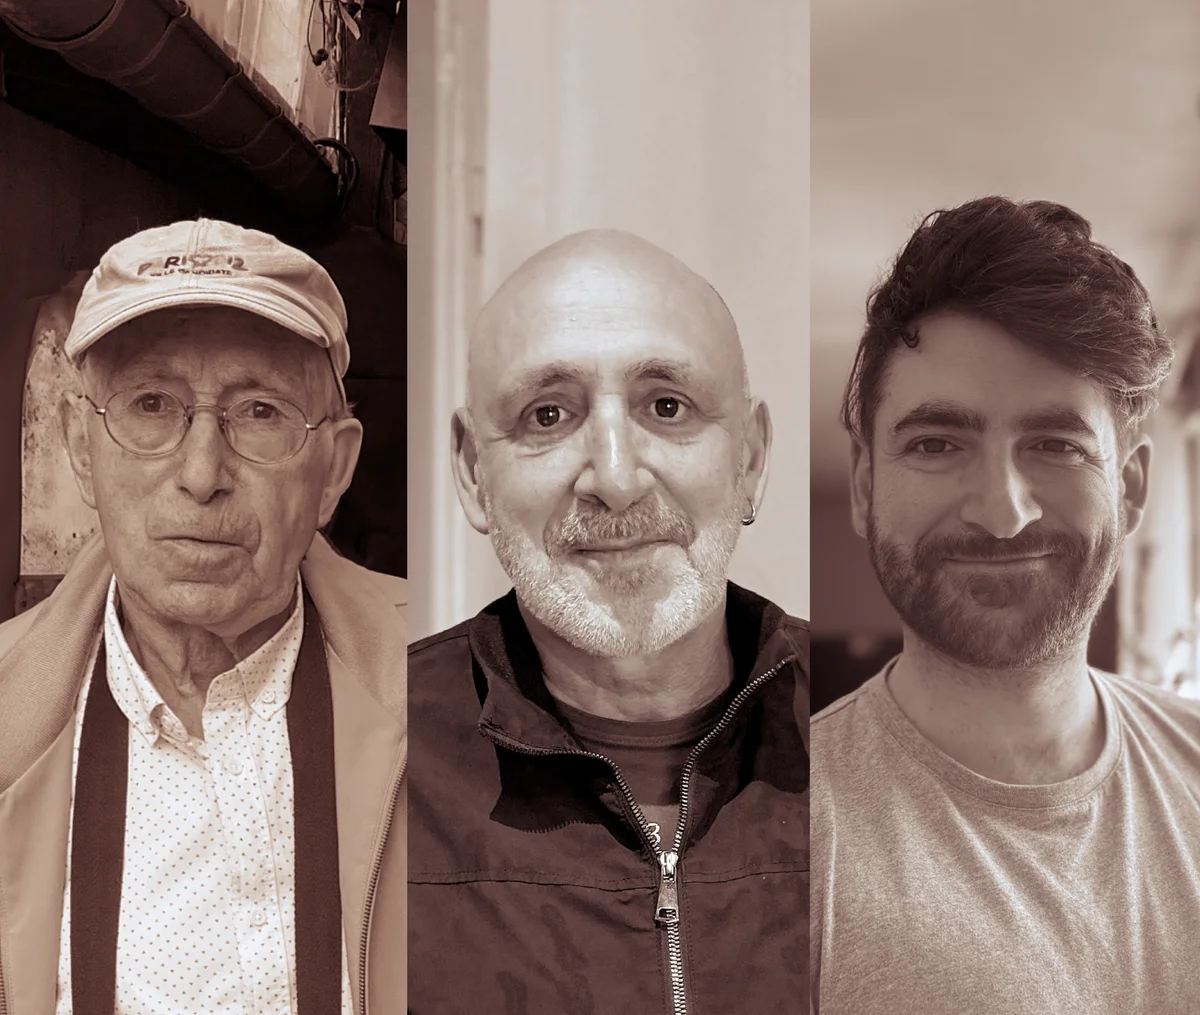
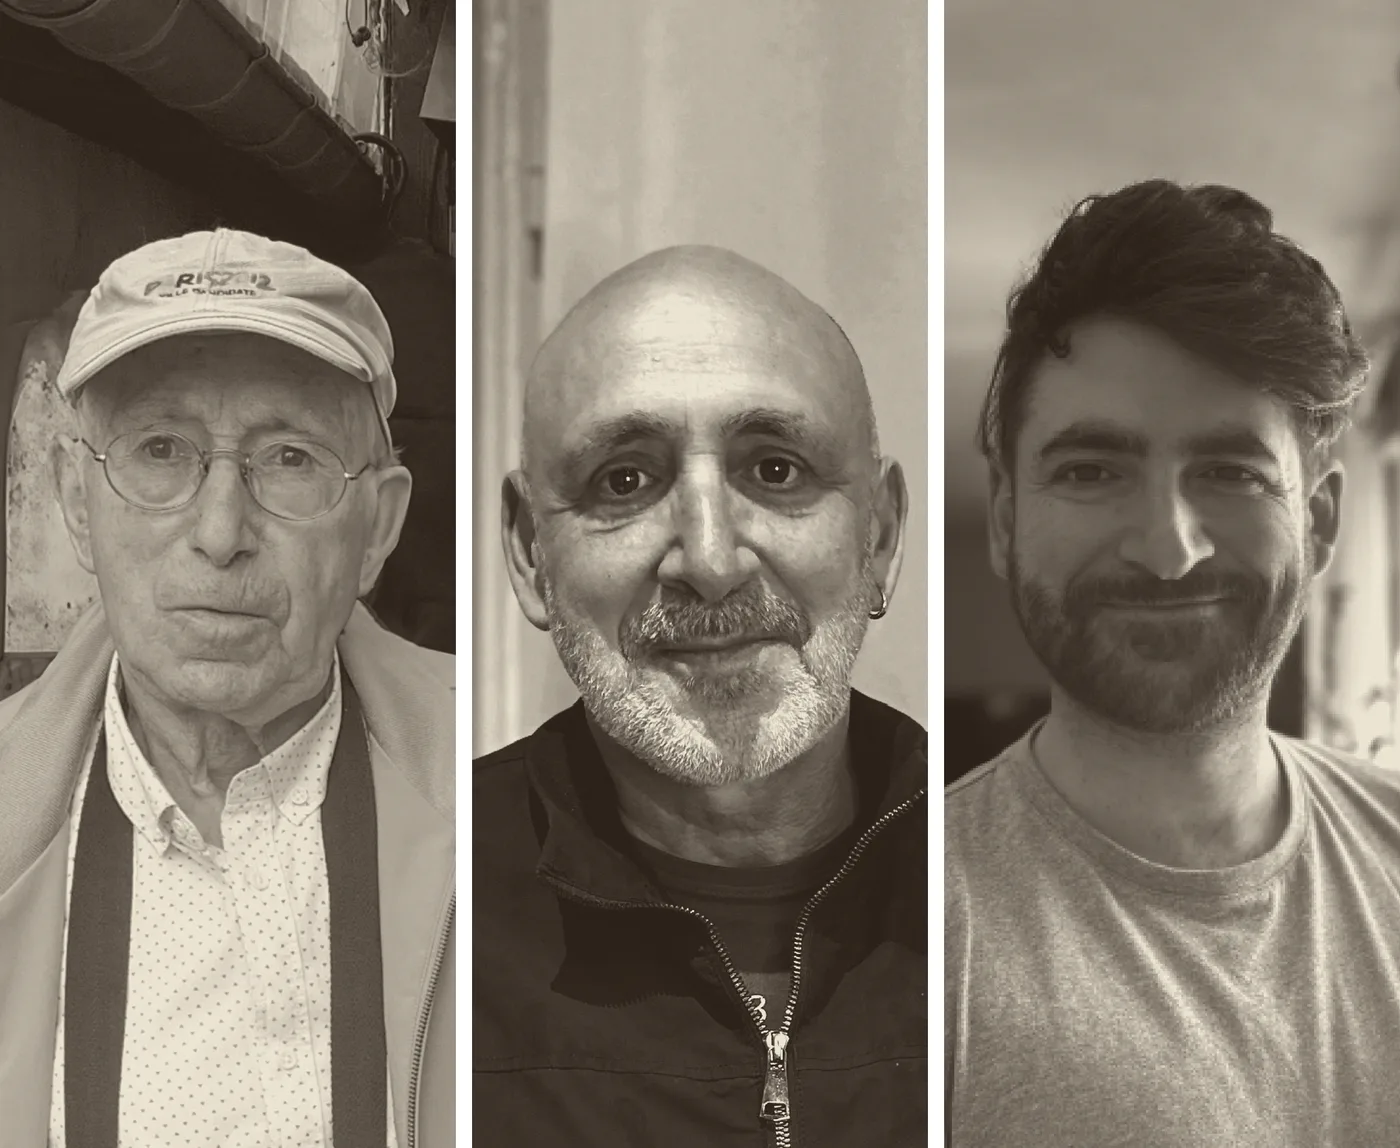
Rework the family triptych so the three portraits match
Rebuilt from the full-resolution source. Each portrait gets the same
width, the same eye line and the same black, mid-grey and white
points, then one shared warm duotone and fine grain on top, with
thin white gutters between them. Before, each photo had its own
contrast and tint and the eyes sat at different heights.

diff --git a/company.html b/company.html
@@ -40,7 +40,7 @@
       <h2>Notre histoire</h2>
       <p class="muted">Tout a commencé en 1960, avec le grand-père Ignacio Cimiano, artisan électricien passionné par la transformation des appartements parisiens. De génération en génération, le savoir-faire s’est transmis et enrichi, intégrant de nouvelles techniques, de nouveaux matériaux et une exigence constante de qualité. Aujourd’hui, l’entreprise perpétue cet héritage avec une approche moderne, sur mesure et tournée vers l’excellence.</p>
     </div>
-    <img src="img/famille.webp" alt="Trois générations de la famille Cimiano" loading="lazy" width="1200" height="1076">
+    <img src="img/famille.webp" alt="Trois générations de la famille Cimiano" loading="lazy" width="1400" height="1148">
   </section>
 
   <section class="card split reveal">

diff --git a/index.html b/index.html
@@ -43,7 +43,7 @@
       <p class="muted">Depuis 1960, la famille Cimiano s’engage à offrir des rénovations de haute qualité. Trois générations d’expertise au service de projets réalisés avec rigueur, soin et excellence.</p>
       <p><a class="btn" href="company">Notre histoire</a></p>
     </div>
-    <img src="img/famille.webp" alt="Trois générations de la famille Cimiano" loading="lazy" width="1200" height="1076">
+    <img src="img/famille.webp" alt="Trois générations de la famille Cimiano" loading="lazy" width="1400" height="1148">
   </section>
 
   <!-- Text comes first in the code so phones show it before the video.
